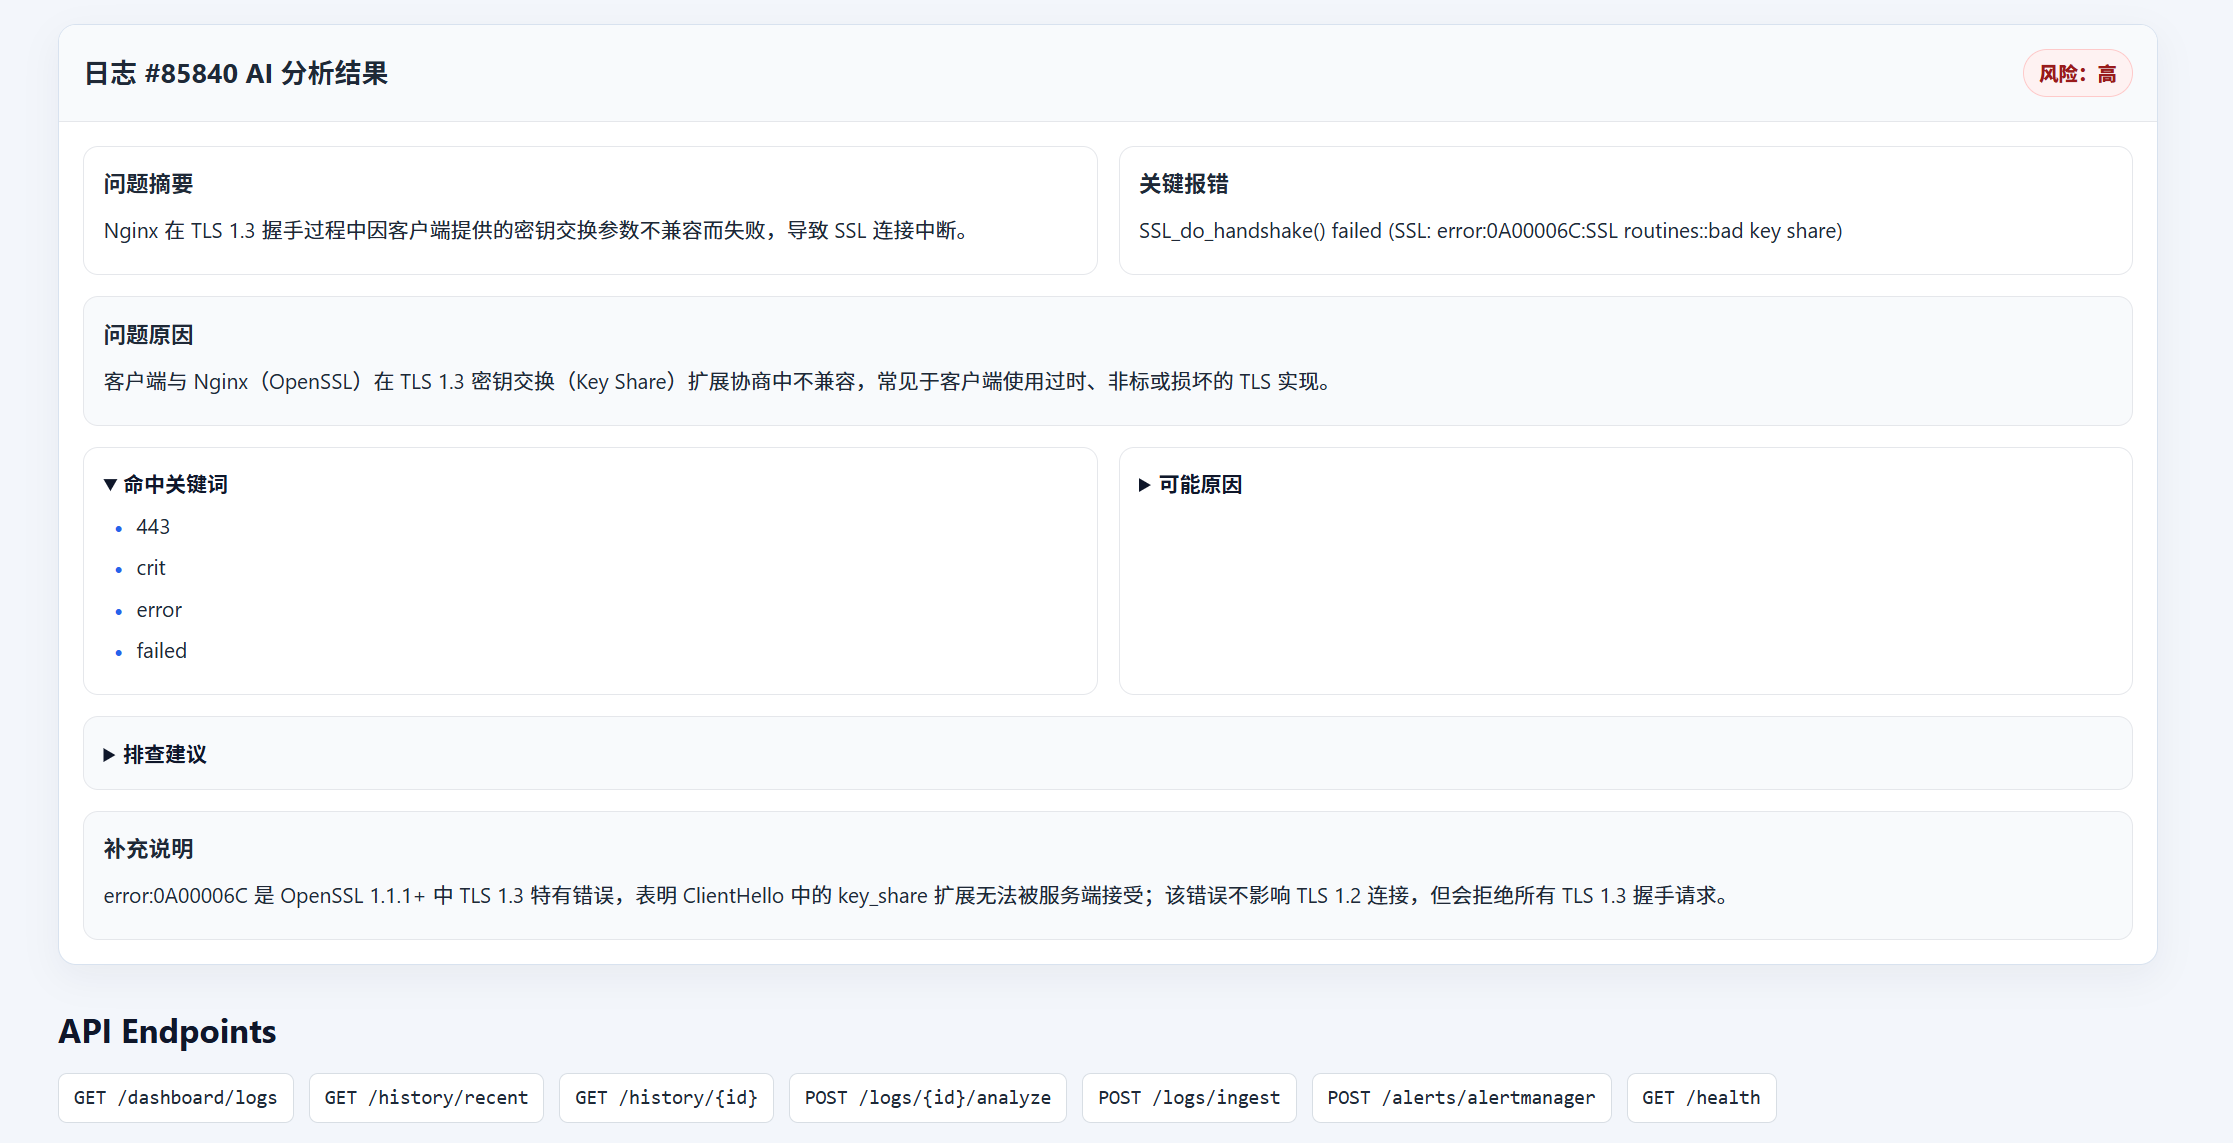
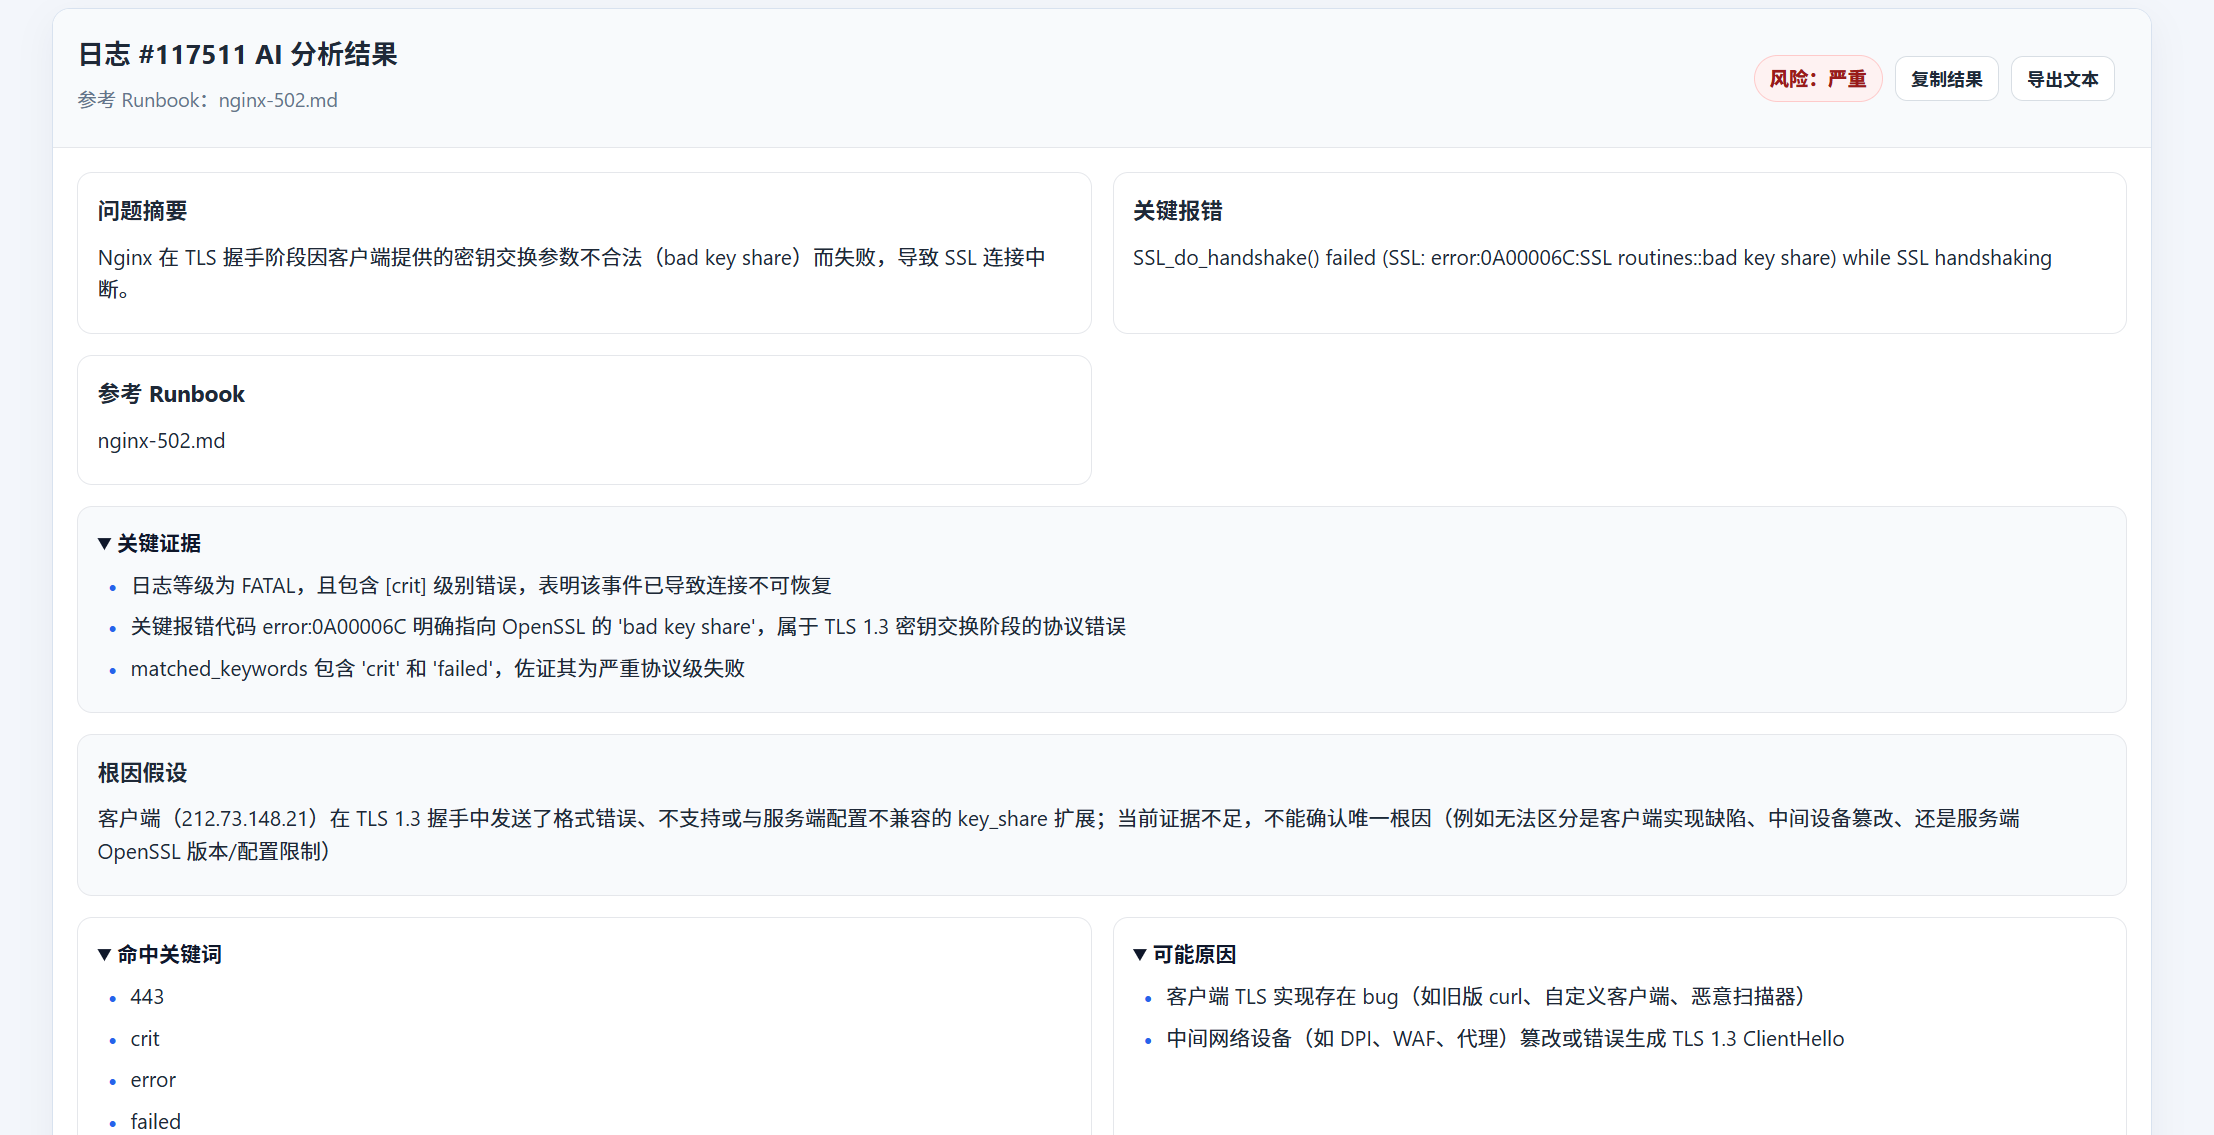
文档整理

diff --git a/README.md b/README.md
@@ -52,6 +52,8 @@ AI-OpsLog 的最终主链路是：
 
 ![AI-OpsLog AI](docs/assets/screenshots/AI分析.png)
 
+![AI-OpsLog AI](docs/assets/screenshots/AI分析2.png)
+
 ## 技术栈
 
 - Python
@@ -326,27 +328,9 @@ AI-Ops-Portfolio/
 - [历史记录 API](docs/history-api.md)
 - [项目最终总结](docs/project-final-summary.md)
 
-## GitHub 上传前检查
-
-建议上传前执行：
-
-```bash
-python -m compileall backend\app scripts\collect_unified_logs.py
-git status --short
-```
-
-确认不要提交：
-
-- `.env`
-- `data/*.db`
-- `data/*.sqlite`
-- `data/*state*.json`
-- `data/archives/*.jsonl`
-- `logs/*.log`
-
 ## 安全边界
 
 - AI 输出只作为人工排查参考。
 - 系统不会自动执行 AI 返回的建议。
-- API Key 通过 `.env` 或环境变量注入，不应提交。
+- API Key 通过 `.env` 或环境变量注入，安全起见不建议写入代码中。
 - 当前项目用于 Demo / 学习 / 简历展示，不是生产级平台。